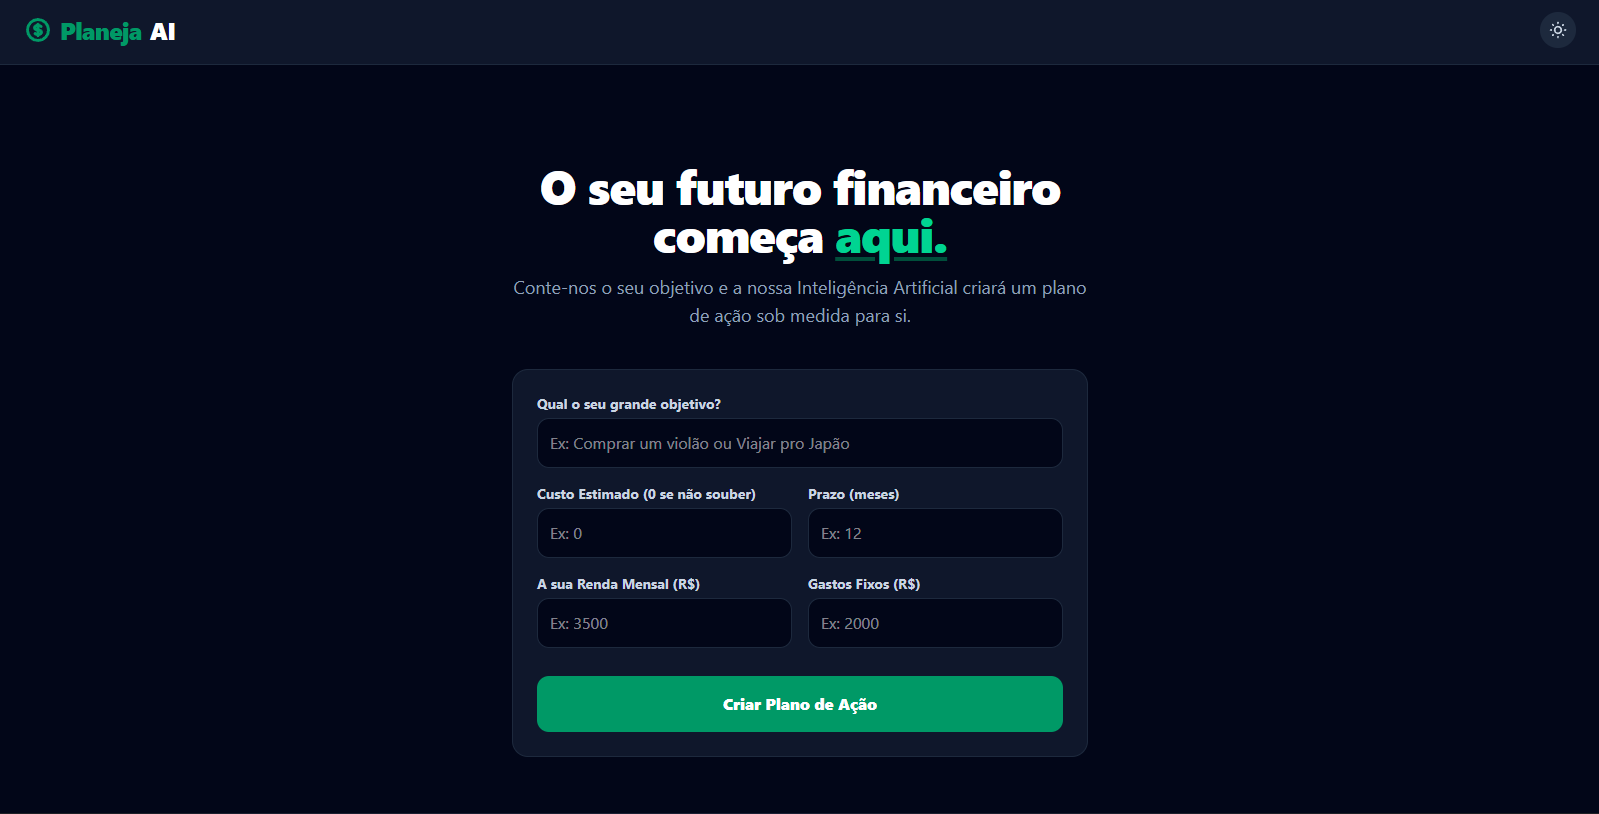
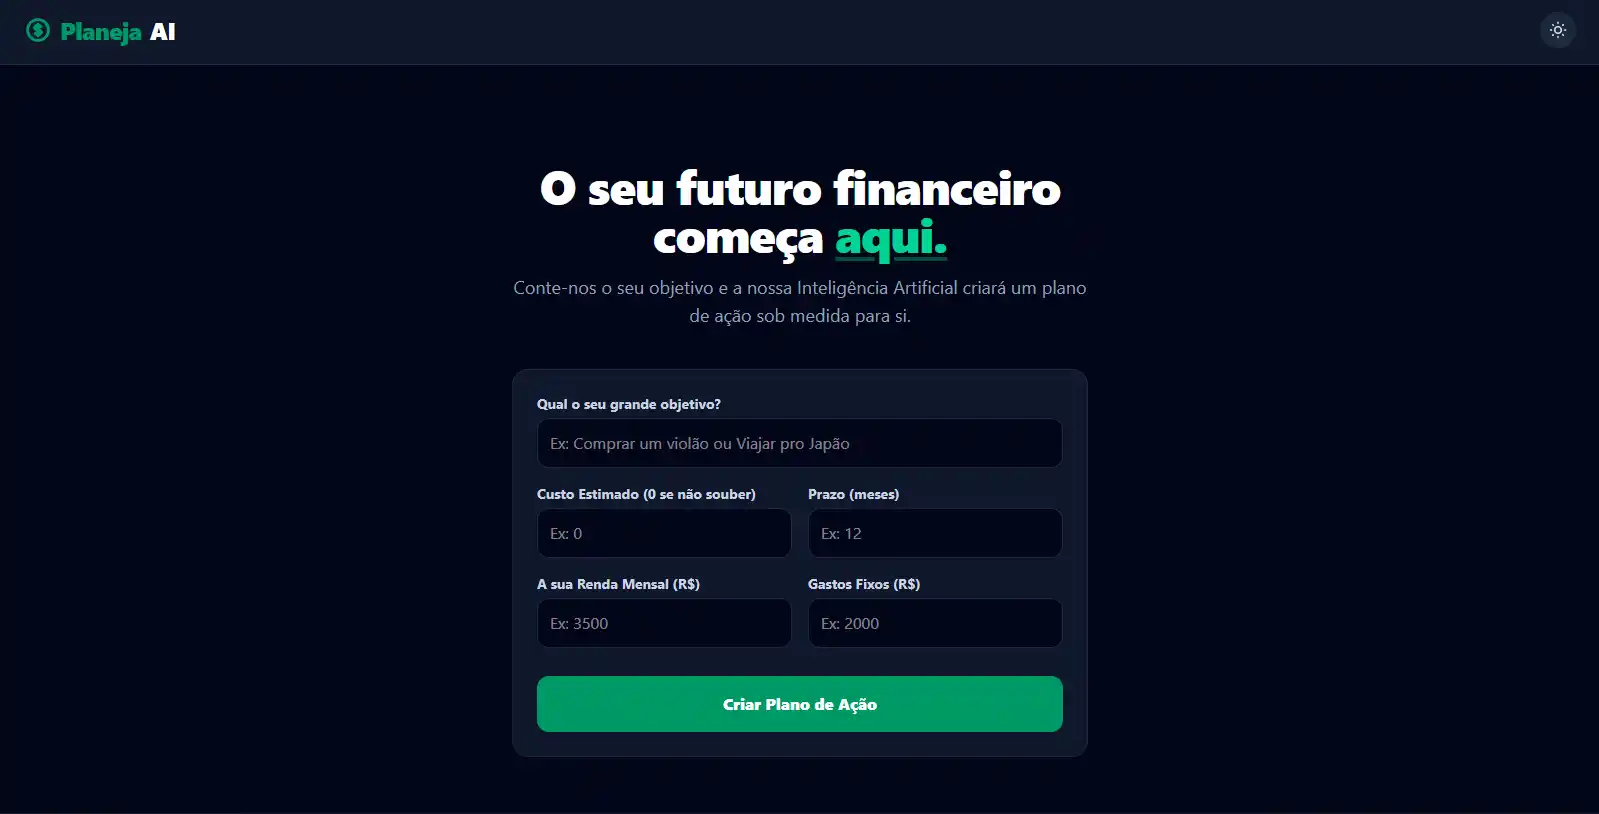
refactor(medias): Transformar Fotos e Vídeos para Formato .web

diff --git a/app/src/pages/main/main.tsx b/app/src/pages/main/main.tsx
@@ -1,10 +1,10 @@
 import { useState } from "react";
 import "./main.css";
 import Intro from "../../components/Intro/Intro";
-import video from "../../assets/videos/window.mp4";
+import video from "../../assets/videos/window.webm";
 import Linkedin from "../../assets/images/linkedin.svg?react";
 import Github from "../../assets/images/github.svg?react";
-import pic1 from "../../assets/images/pic1.jpeg";
+import pic1 from "../../assets/images/pic1.webp";
 import Footer from "../../components/footer/footer";
 import { useEffect } from "react";
 import { NavLink } from "react-router-dom";
@@ -223,13 +223,15 @@ function MainPage() {
             <div className="grid grid-cols-1 md:grid-cols-2 lg:grid-cols-3 gap-8">
               {/* PROJETO 1 */}
               <div className="project-card flex flex-col group">
-                <div className="project-img-placeholder overflow-hidden">
-                  <img
-                    src={planejai}
-                    className="w-full rounded-t h-full object-cover group-hover:scale-110 transition-transform duration-300"
-                    alt="Projeto PlanejaIA"
-                  />
-                </div>
+                <a href="https://planejaai-kauatf.vercel.app/" target="_blank">
+                  <div className="project-img-placeholder overflow-hidden">
+                    <img
+                      src={planejai}
+                      className="w-full rounded-t h-full object-cover group-hover:scale-110 transition-transform duration-300"
+                      alt="Projeto PlanejaIA"
+                    />
+                  </div>
+                </a>
                 <div className="p-8 md:p-6 flex flex-col flex-1 text-center md:text-left">
                   <h3 className="text-3xl text-center md:text-xl font-bold text-[#2c1a12] mb-3">
                     Planeja.AI
@@ -261,13 +263,15 @@ function MainPage() {
 
               {/* PROJETO 2 */}
               <div className="project-card flex flex-col group">
-                <div className="project-img-placeholder overflow-hidden">
-                  <img
-                    src={kauaffe}
-                    className="w-full rounded-t h-full object-cover group-hover:scale-110 transition-transform duration-300"
-                    alt="Projeto kauaffe"
-                  />
-                </div>
+                <a href="https://kauaffe.vercel.app/" target="_blank">
+                  <div className="project-img-placeholder overflow-hidden">
+                    <img
+                      src={kauaffe}
+                      className="w-full rounded-t h-full object-cover group-hover:scale-110 transition-transform duration-300"
+                      alt="Projeto kauaffe"
+                    />
+                  </div>
+                </a>
                 <div className="p-8 md:p-6 flex flex-col flex-1 text-center md:text-left">
                   <h3 className="text-3xl md:text-xl font-bold text-[#2c1a12] mb-3">
                     Kauaffè

diff --git a/app/src/components/footer/footer.tsx b/app/src/components/footer/footer.tsx
@@ -16,6 +16,14 @@ function Footer() {
         {/* A div dos links também força a cor clara */}
         <div className="flex gap-6 text-sm font-bold">
           <a
+            href="https://www.instagram.com/kauatf_/?hl=pt"
+            target="_blank"
+            rel="noreferrer"
+            className="hover:-translate-y-0.5 hover:scale-105 transition-all"
+          >
+            Instagram
+          </a>
+          <a
             href="https://github.com/euKauatf"
             target="_blank"
             rel="noreferrer"